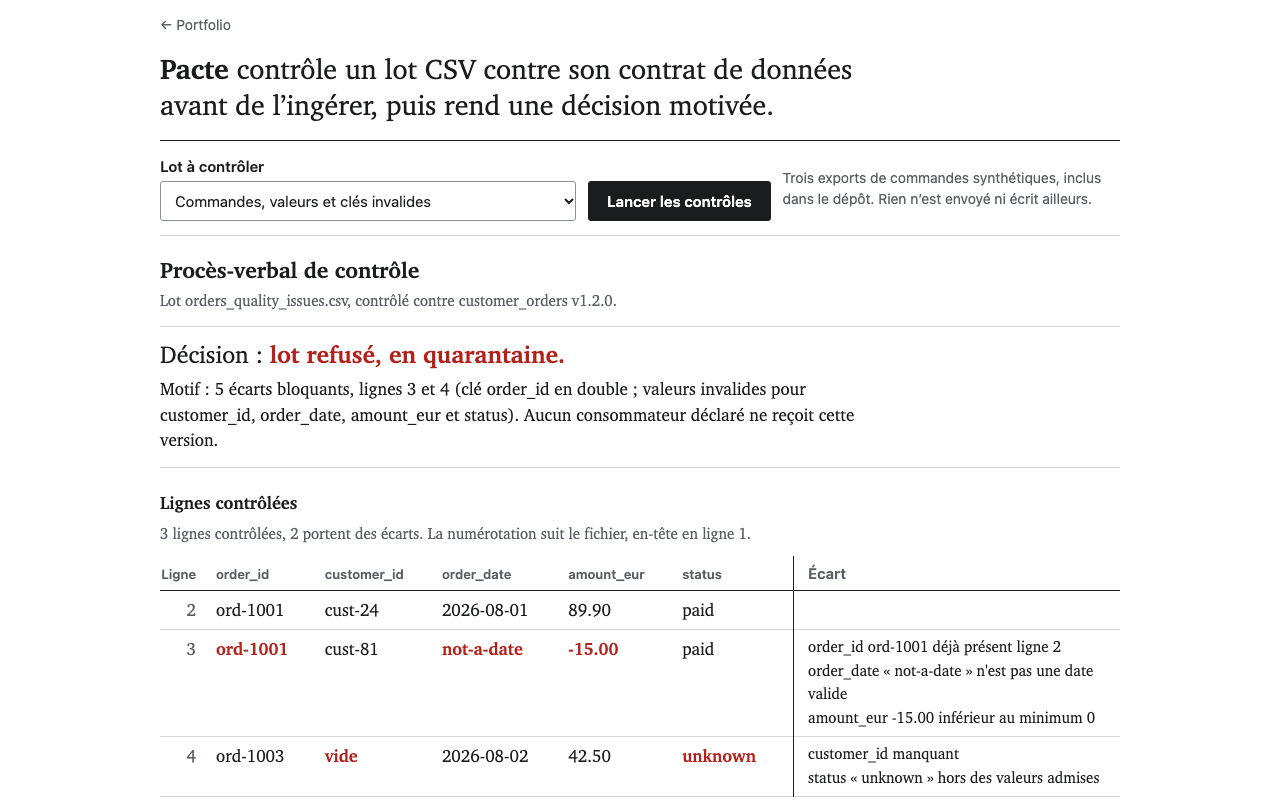
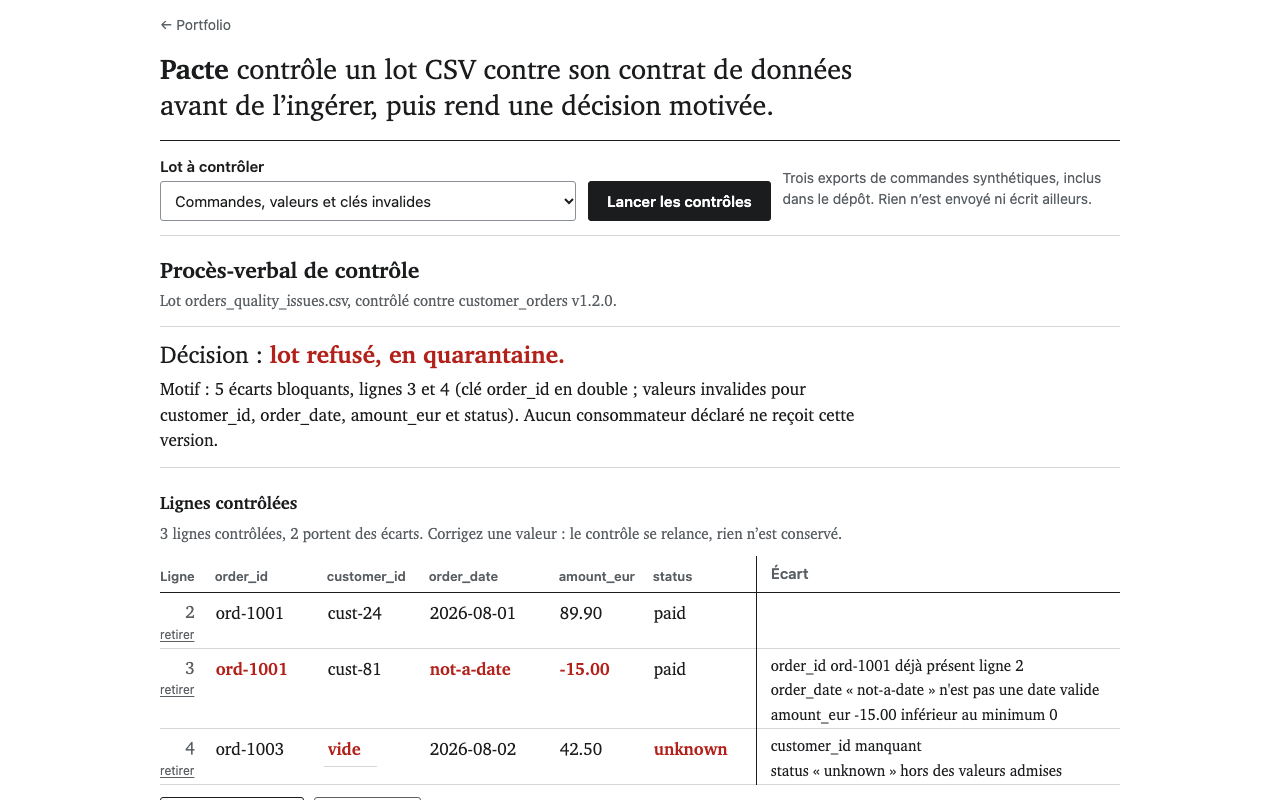
Décrire la correction du lot et refaire la capture d'ouverture
La capture du portfolio montre l'état d'ouverture, statique et complet ;
le README explique ce qu'on peut corriger, pourquoi corriger seulement
la ligne 3 ne suffit pas, les limites de l'essai et les deux commandes
de test.

diff --git a/README.md b/README.md
@@ -8,11 +8,19 @@ Démo en ligne : https://pacte-ikel.onrender.com (instance gratuite Render, le p
 
 ![Résultat du contrôle de l’export aux valeurs invalides](docs/demo.png)
 
-La capture montre le procès-verbal après le contrôle de l’export aux valeurs invalides : la décision (lot refusé, en quarantaine) et son motif d’abord, puis les lignes du fichier avec, en marge de chaque ligne fautive, l’écart relevé.
+La capture montre l’état d’ouverture de la page : le procès-verbal du lot aux valeurs invalides, avec la décision (lot refusé, en quarantaine) et son motif d’abord, puis les lignes du fichier et, en marge de chaque ligne fautive, l’écart relevé.
 
 ## Les scénarios fournis
 
 Trois exports de commandes synthétiques sont inclus dans `data/`. Le fichier conforme passe. Celui qui contient une date invalide, un montant négatif, un client manquant, un statut inconnu et une clé en double est écarté. Celui qui ajoute une colonne `currency` attend une revue avant toute publication.
+
+## Corriger le lot dans la page
+
+Les valeurs du tableau « Lignes contrôlées » se modifient sur place. On peut aussi ajouter ou retirer une ligne, retirer une colonne absente du contrat ou coller un petit CSV. À chaque modification, la page renvoie la copie entière à `POST /api/trial`, qui applique exactement les mêmes contrôles que pour un fichier du dépôt ; la décision, le motif et la colonne des écarts se mettent à jour. La page indique alors « Scénario modifié par vous », et « Revenir au lot de référence » (ou « Réinitialiser ») rétablit le fichier d’origine.
+
+Les règles restent celles du contrat : corriger seulement la date et le montant de la ligne 3 laisse le lot refusé, car ord-1001 reste en double et la ligne 4 garde un client manquant et un statut inconnu. Le lot passe à « accepté » une fois les cinq écarts corrigés, ou les deux lignes retirées.
+
+L’essai est calculé en mémoire : rien n’est écrit, ni le contenu ni un reçu, et un visiteur ne voit jamais la copie d’un autre puisque chaque appel transporte son propre lot. Un essai est limité à 200 lignes et 64 Ko, et à 90 appels par minute et par adresse IP. Les valeurs saisies sont réaffichées comme du texte (jamais comme du HTML), et une formule comme `=1+1` reste une chaîne invalide pour un montant.
 
 ## Ce qui est réellement contrôlé
 
@@ -43,15 +51,16 @@ cd pacte
 PYTHONPATH=src python3 -m pacte.server
 ```
 
-Ouvrir ensuite `http://localhost:8090`, choisir un des trois exports et lancer les contrôles. La page affiche le procès-verbal (décision, lignes en écart, contrôles, suite pour les consommateurs, reçu), puis le contrat lui-même. `http://localhost:8090/?lot=orders_schema_drift.csv` lance directement le contrôle d’un lot.
+Ouvrir ensuite `http://localhost:8090` : la page s’ouvre sur le procès-verbal du lot refusé. On peut choisir un autre export et relancer les contrôles. La page affiche le procès-verbal (décision, lignes en écart, contrôles, suite pour les consommateurs, reçu), puis le contrat lui-même. `http://localhost:8090/?lot=orders_schema_drift.csv` lance directement le contrôle d’un lot.
 
 ## Vérifier le projet
 
 ```bash
 PYTHONPATH=src python3 -m unittest discover -s tests -v
+node --test tests/*.test.js
 ```
 
-La suite couvre le lot conforme, la dérive de schéma, les erreurs de qualité, un lot vide, un contrat invalide et l’idempotence du reçu.
+La suite Python couvre le lot conforme, la dérive de schéma, les erreurs de qualité, un lot vide, un contrat invalide, l’idempotence du reçu et l’endpoint d’essai (chaque correction proposée par la page, isolation entre visiteurs, absence d’écriture, limites de taille et de débit, valeurs contenant du HTML ou une formule). Le test Node vérifie la reconstruction du CSV dans la page et l’absence d’injection de HTML.
 
 ## API de démonstration
 
@@ -59,7 +68,8 @@ La suite couvre le lot conforme, la dérive de schéma, les erreurs de qualité,
 - `GET /api/overview` retourne le contrat, les lots fournis et les derniers reçus locaux.
 - `GET /api/audit` retourne l’historique compact des exécutions.
 - `GET /api/runs/{run_id}` retrouve une exécution précise.
-- `POST /api/validate` avec `{ "batch": "orders_clean.csv" }` lance les contrôles sur un lot inclus dans `data/`.
+- `POST /api/validate` avec `{ "batch": "orders_clean.csv" }` lance les contrôles sur un lot inclus dans `data/` et enregistre un reçu.
+- `POST /api/trial` avec `{ "csv": "order_id,…\n…" }` contrôle un CSV envoyé, en mémoire et sans reçu (200 lignes, 64 Ko, 90 appels par minute et par IP).
 
 ## Limites assumées
 
